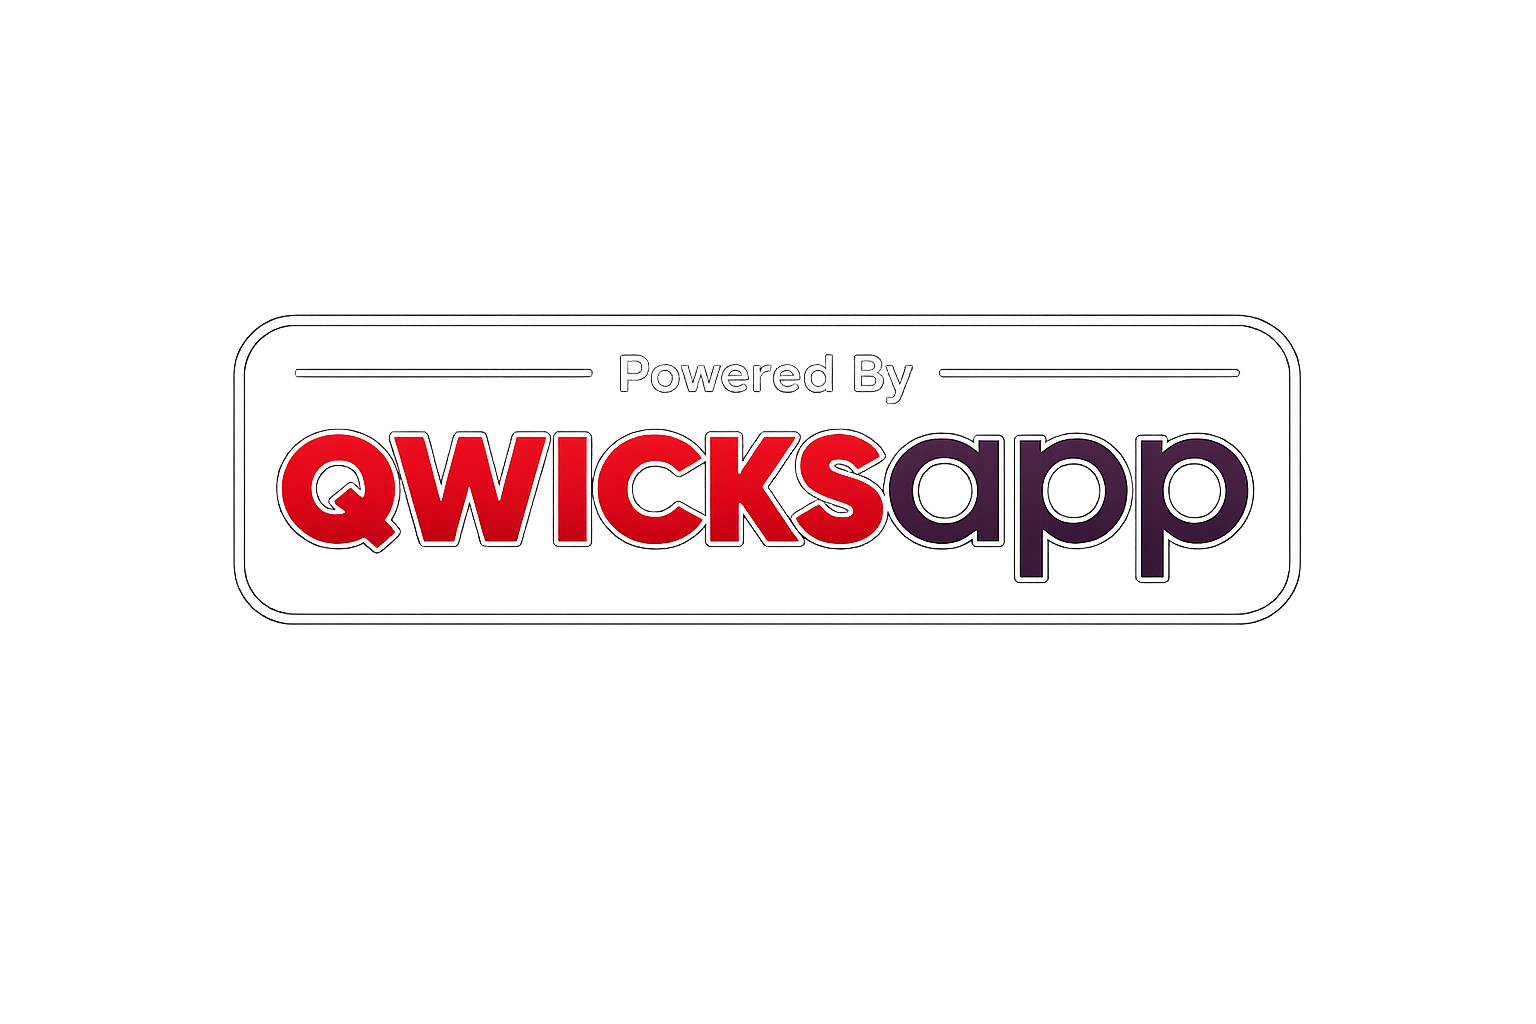
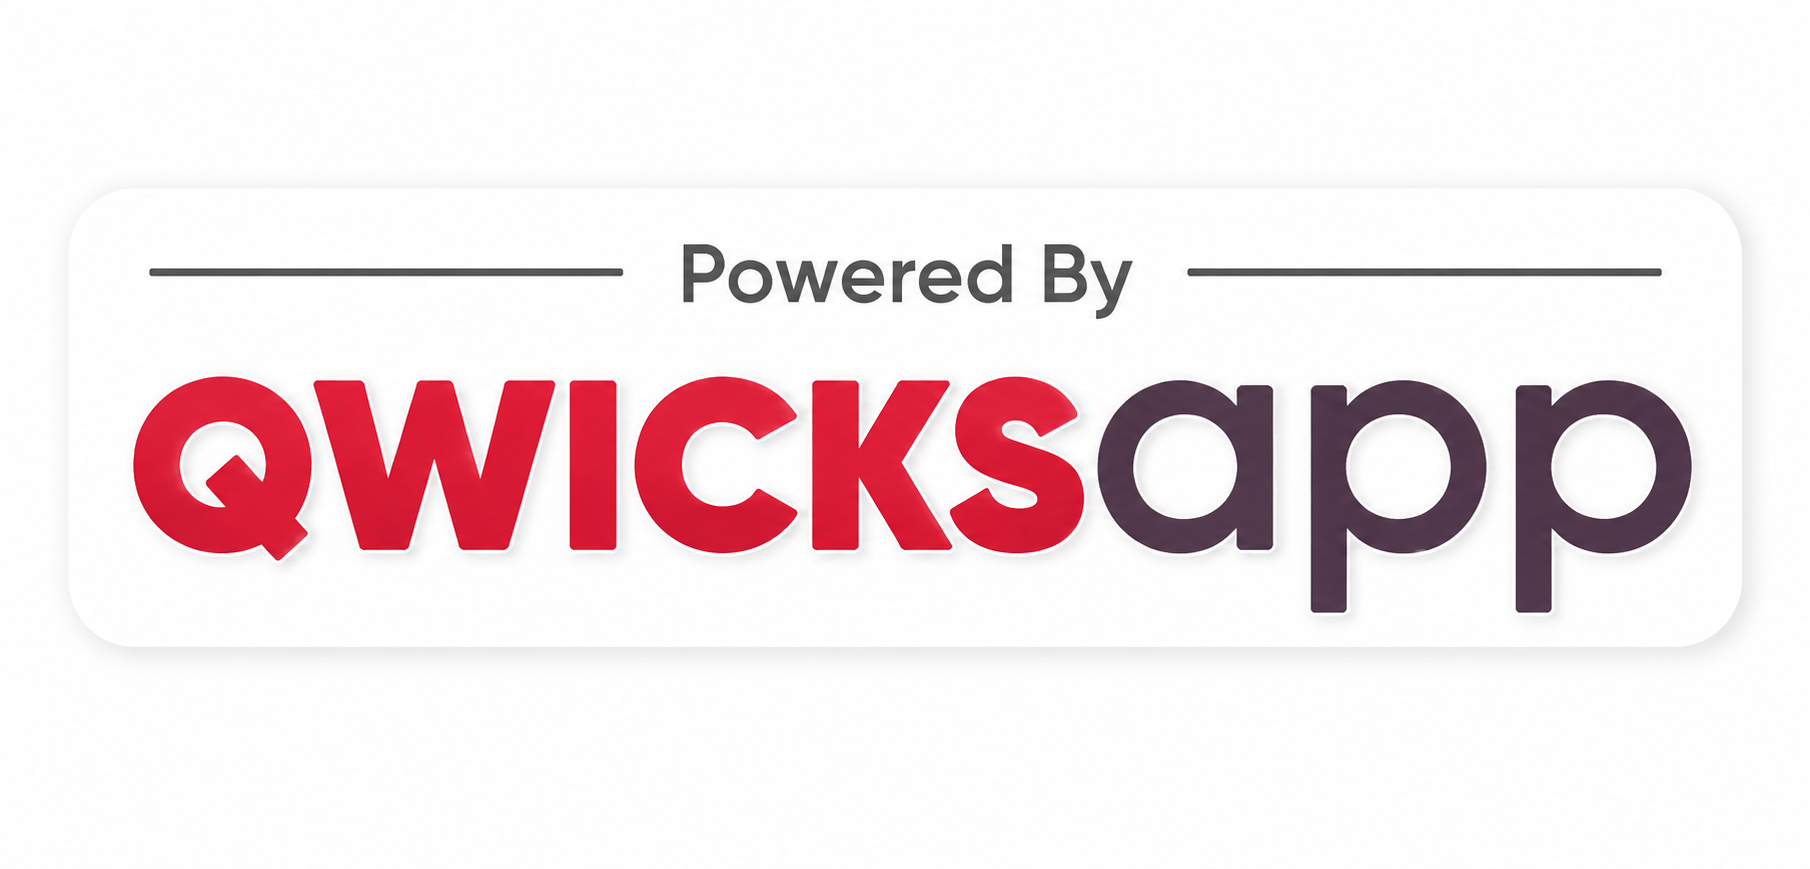
Use poweredby.png in sidebar only; drop page footer badge.

Changed region(s): [[0.0625, 0.2796, 0.9375, 0.7146]]

diff --git a/components/layout/sidebar.tsx b/components/layout/sidebar.tsx
@@ -22,7 +22,6 @@ import {
 import { cn } from "@/lib/utils";
 import { BUSINESS } from "@/lib/business";
 import { useState, useEffect } from "react";
-import { PoweredByQwicksapp } from "@/components/branding/powered-by-qwicksapp";
 
 const PURCHASE_ROUTES = ["/purchases", "/suppliers"];
 
@@ -286,7 +285,24 @@ export function Sidebar({
               Logout
             </button>
           </div>
-          <PoweredByQwicksapp size="sm" className="self-start" />
+          <div className="flex w-full justify-center border-t border-slate-800/60 pt-2">
+            <a
+              href="https://qwicksapp.com"
+              target="_blank"
+              rel="noopener noreferrer"
+              title="Powered by Qwicksapp"
+              className="inline-flex justify-center"
+            >
+              {/* Plain img avoids Next/Image cache serving an old asset */}
+              <img
+                src="/poweredby.png?v=3"
+                alt="Powered by Qwicksapp"
+                width={168}
+                height={56}
+                className="h-9 w-auto max-w-[180px] object-contain"
+              />
+            </a>
+          </div>
         </div>
       </aside>
     </>

diff --git a/components/layout/app-shell.tsx b/components/layout/app-shell.tsx
@@ -7,7 +7,6 @@ import { Sidebar } from "./sidebar";
 import { Menu } from "lucide-react";
 import { Button } from "@/components/ui/button";
 import { BUSINESS } from "@/lib/business";
-import { PoweredByQwicksapp } from "@/components/branding/powered-by-qwicksapp";
 
 export function AppShell({ children }: { children: React.ReactNode }) {
   const [sidebarOpen, setSidebarOpen] = useState(false);
@@ -44,12 +43,7 @@ export function AppShell({ children }: { children: React.ReactNode }) {
 
       <Sidebar isOpen={sidebarOpen} onClose={() => setSidebarOpen(false)} />
 
-      <div className="flex min-h-0 min-w-0 flex-1 flex-col">
-        <main className="min-h-0 flex-1 overflow-y-auto">{children}</main>
-        <footer className="no-print flex shrink-0 items-center justify-start border-t border-slate-200 bg-white px-4 py-2 md:px-6">
-          <PoweredByQwicksapp size="sm" />
-        </footer>
-      </div>
+      <main className="min-h-0 flex-1 overflow-y-auto">{children}</main>
     </div>
   );
 }

diff --git a/app/login/page.tsx b/app/login/page.tsx
@@ -10,7 +10,6 @@ import {
   loginWithAdminPassword,
 } from "@/lib/actions/auth";
 import { BUSINESS } from "@/lib/business";
-import { PoweredByQwicksapp } from "@/components/branding/powered-by-qwicksapp";
 import { AlertCircle, ArrowLeft, CheckCircle2, RefreshCw } from "lucide-react";
 
 const ADMIN_PHONE = "9999999999";
@@ -436,10 +435,6 @@ export default function LoginPage() {
         </p>
       </div>
 
-      <PoweredByQwicksapp
-        size="md"
-        className="absolute bottom-3 left-3 z-20 sm:bottom-4 sm:left-4"
-      />
     </div>
   );
 }

diff --git a/app/globals.css b/app/globals.css
@@ -134,28 +134,3 @@ body {
   }
 }
 
-/* Qwicksapp — Powered By badge (pure CSS) */
-.powered-by-qwicksapp {
-  background: #000;
-  border: 1.5px solid #fff;
-  box-sizing: border-box;
-}
-
-.powered-by-wordmark {
-  font-family: Arial Black, Impact, Haettenschweiler, "Arial Narrow Bold", sans-serif;
-}
-
-.powered-by-qwicks,
-.powered-by-app {
-  -webkit-text-stroke: 1px #fff;
-  paint-order: stroke fill;
-}
-
-.powered-by-qwicks {
-  color: #e31c23;
-}
-
-.powered-by-app {
-  color: #2a1a2c;
-}
-
